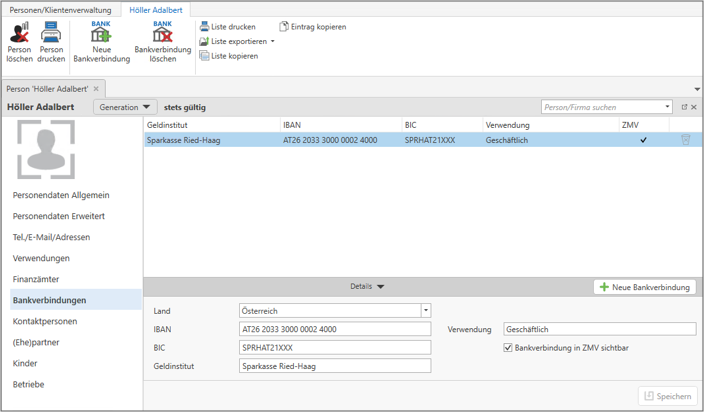
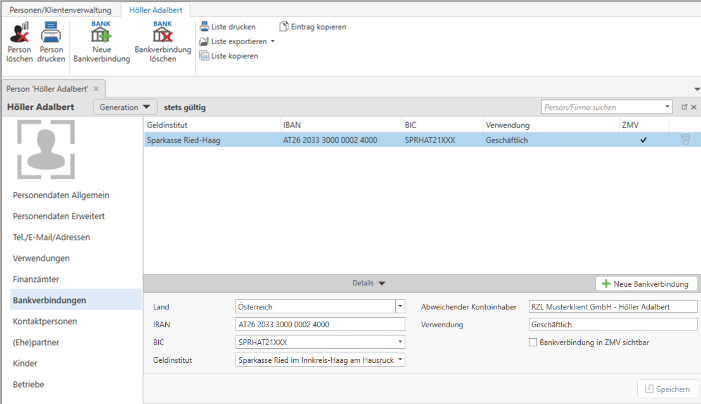
abweichender Kontoinhaber

Changed region(s): [[0.0, 0.0, 1.0, 1.0], [0.3894, 0.0297, 0.5093, 0.0891]]

diff --git a/docs/Board/Stammdatenverwaltung (STAMM)/Personen und Firmen.md b/docs/Board/Stammdatenverwaltung (STAMM)/Personen und Firmen.md
@@ -207,12 +207,14 @@ zeigt es das Datum der Überprüfung an.
 ### **Bankverbindungen**
 
 Hier können Sie die Bankverbindungen der Person eintragen. Das mit der
-Option *Bankverbindung in ZMV sichtbar* **(1)** gekennzeichnete
+Option *Bankverbindung in ZMV sichtbar* gekennzeichnete
 Bankinstitut wird für den Zahlscheindruck innerhalb der RZL
-Honorarverrechnung verwendet. Über das Papierkorbsymbol bzw. über
+Honorarverrechnung (Klassik) verwendet. Über das Papierkorbsymbol bzw. über
 *Bankverbindung löschen* können Sie ein Geldinstitut löschen.
 
 ![](<img/image38.png>)
+
+Unter Abweichender Kontoinhaber können Sie den eine abweichende Bezeichnung für die angezeigte Bankverbindung für die Honorarverrechnung (Next) definieren.
 
 ### **Kontaktpersonen**
 
